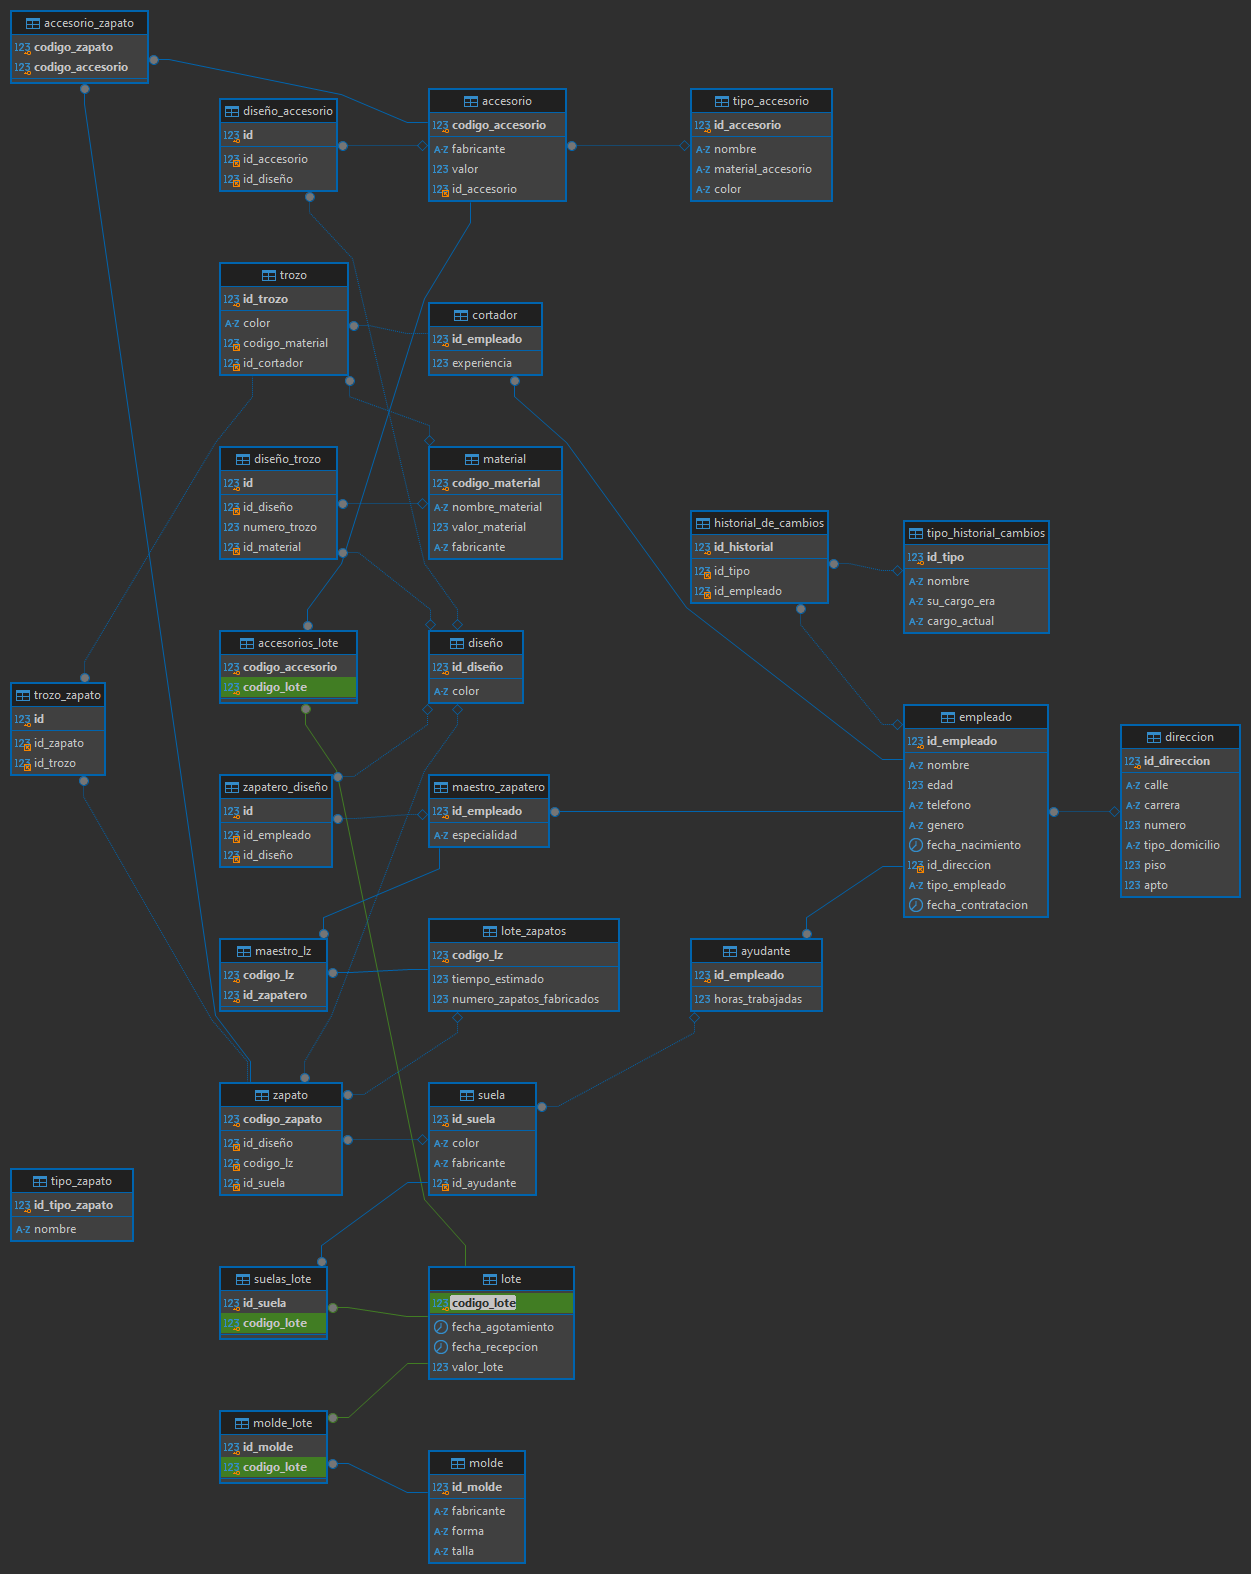
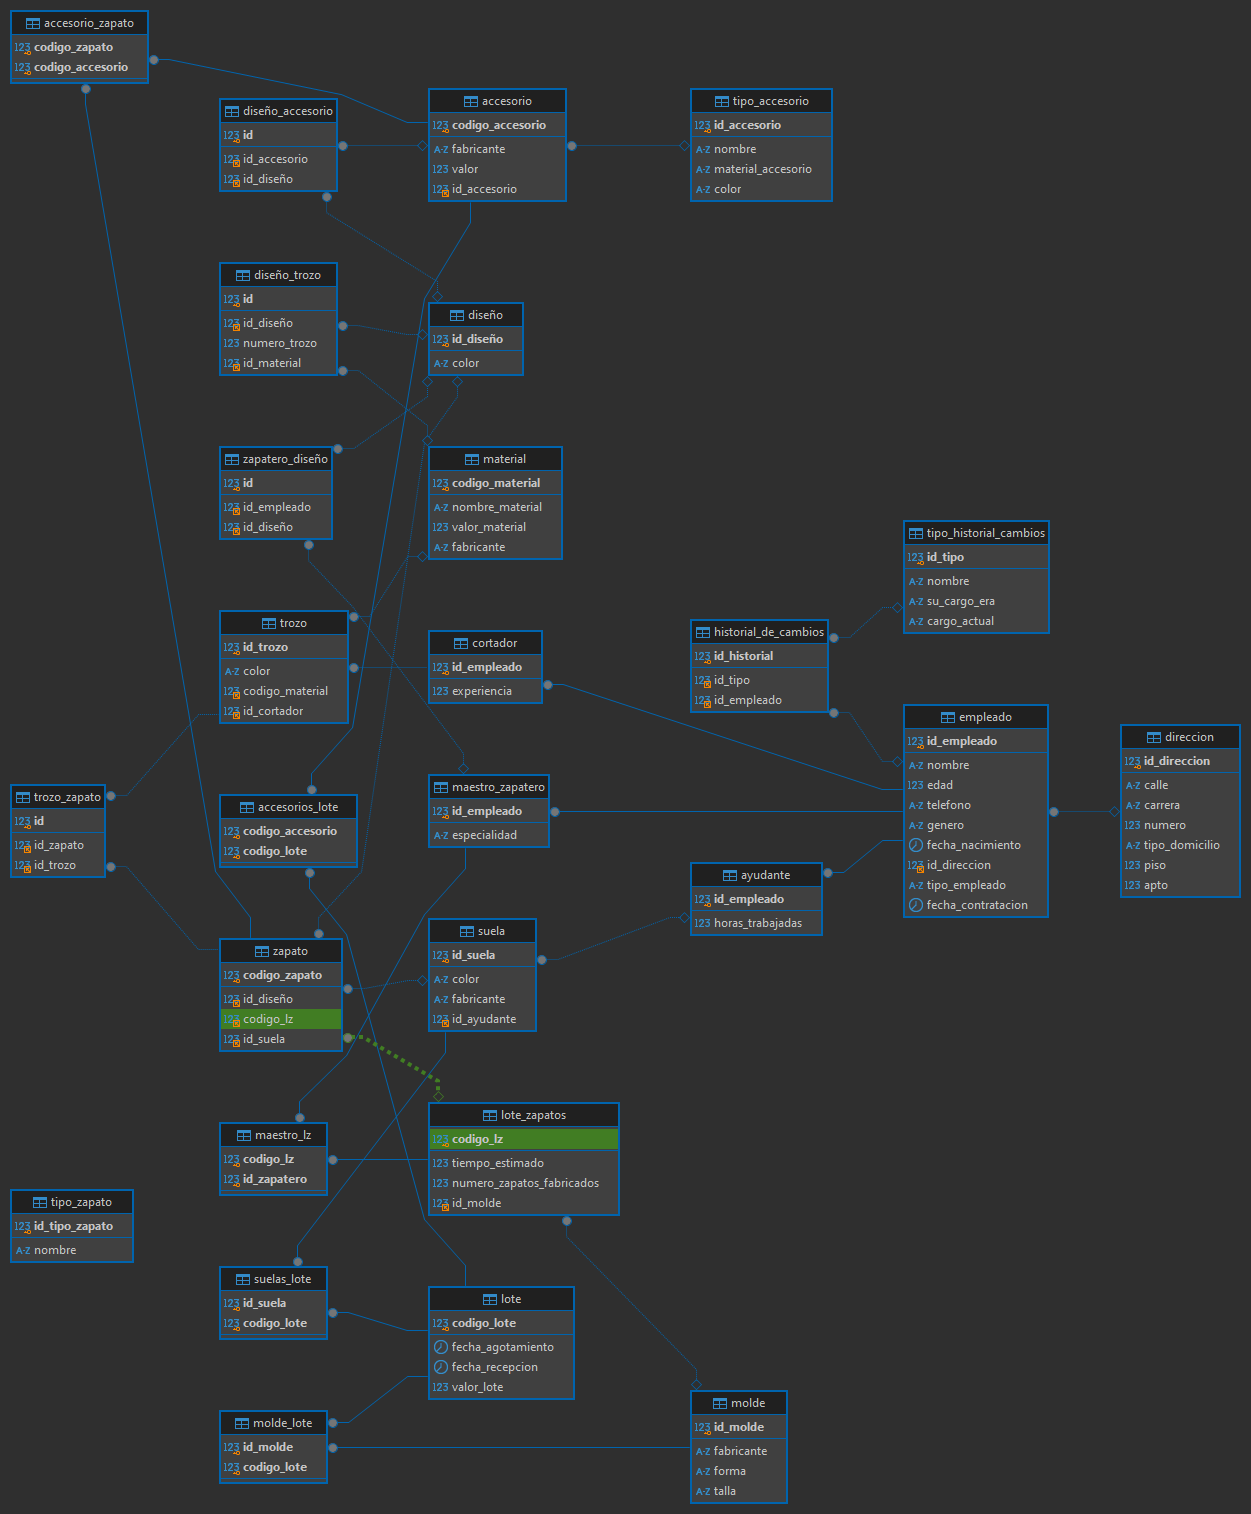
feat(select_shoes_where_molde)

diff --git a/README.md b/README.md
@@ -858,3 +858,32 @@ VALUES (2, 3, 2);
 ![Actualizar Diseño Trozo](./images/update_diseno_trozo.png)
 
 ---
+
+### Consultas sobre la base de datos
+
+---
+
+Una vez tenga la base de datos con la estructura y los datos cargados, realice las siguientes consultas en la base de datos. Incluya el código SQL en el informe.
+
+---
+
+- **Realizar una consulta que permita conocer en qué zapatos fue usado un determinado molde:**
+
+```sql
+-- Buscar los zapatos relacionados a un molde
+SELECT
+    z.codigo_zapato,
+    z.id_diseño,
+    z.codigo_lz,
+    z.id_suela
+FROM
+    zapato z
+JOIN
+    lote_zapatos lz ON z.codigo_lz = lz.codigo_lz
+WHERE
+    lz.id_molde = 1;
+```
+
+![Consulta Zapatos con Molde](./images/select_shoes_where_molde.png)
+
+---
